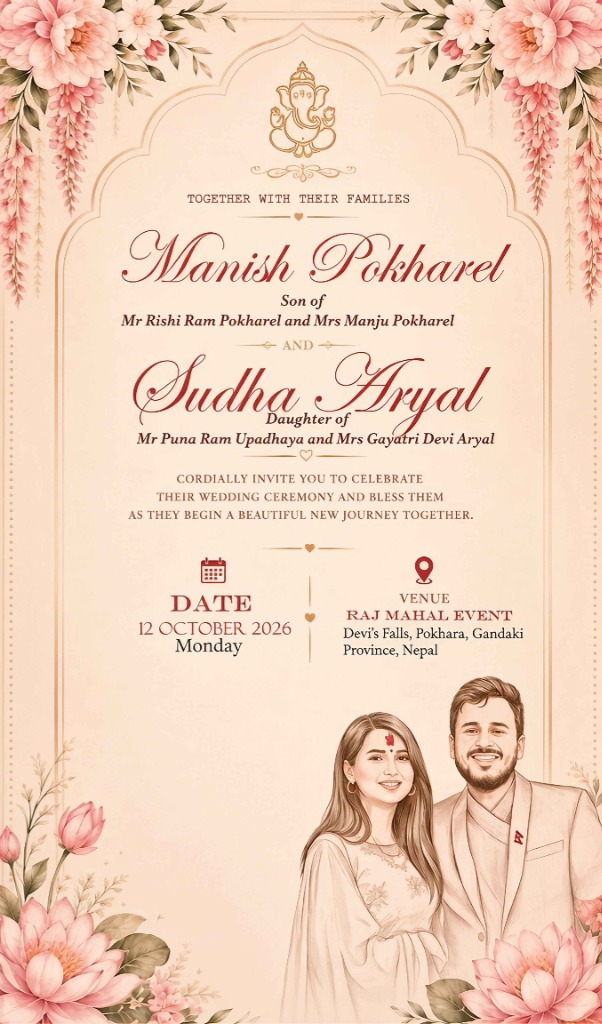
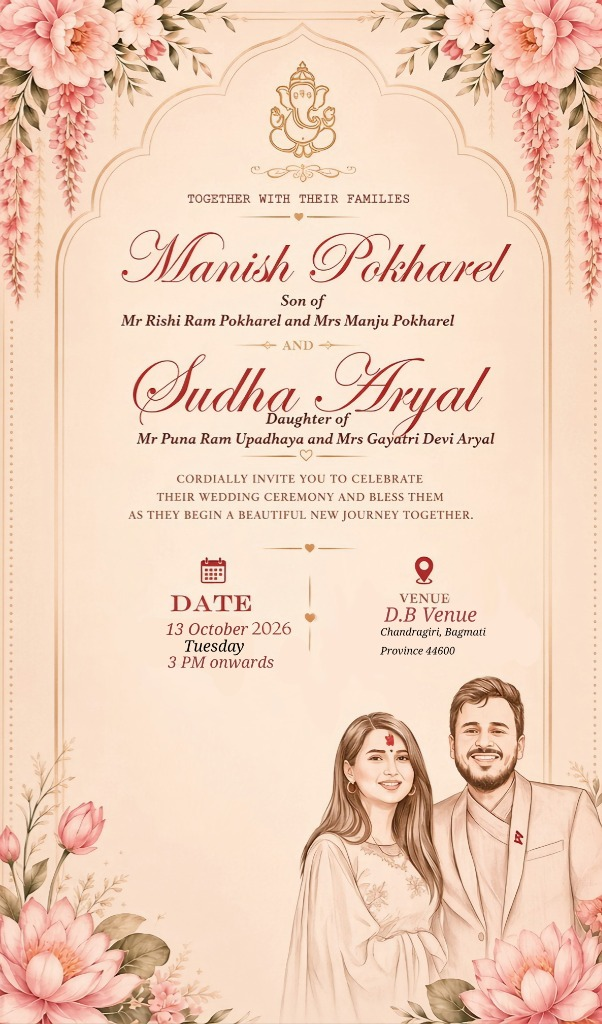
Party Invite

diff --git a/index.html b/index.html
@@ -70,34 +70,34 @@
             <!-- Triangular Flap (clip-path animated to fold open — no 3D rotation) -->
             <div class="envelope-flap-wrap" id="envelope-flap">
               <img src="assets/envelope-back.png" alt="Envelope Flap" class="envelope-asset-img" />
+            </div>
 
-              <!-- Metallic Ganesha Wax Seal -->
-              <div class="wax-seal" id="wax-seal" role="button" aria-label="Open 3D Invitation Envelope">
-                <div class="wax-glow-halo"></div>
-                <div class="wax-seal-body">
-                  <div class="wax-seal-rim">
-                    <svg viewBox="0 0 100 100" class="ganesha-seal-svg">
-                      <defs>
-                        <linearGradient id="ganeshaGold" x1="0%" y1="0%" x2="100%" y2="100%">
-                          <stop offset="0%" stop-color="#fff4c2" />
-                          <stop offset="35%" stop-color="#fae19c" />
-                          <stop offset="70%" stop-color="#d4af37" />
-                          <stop offset="100%" stop-color="#8a6114" />
-                        </linearGradient>
-                      </defs>
-                      <path d="M50 16 C45 16 42 20 42 24 C42 28 45 32 50 32 C55 32 58 28 58 24 C58 20 55 16 50 16 Z" fill="url(#ganeshaGold)" />
-                      <path d="M44 20 L50 8 L56 20 Z" fill="url(#ganeshaGold)" />
-                      <circle cx="50" cy="7" r="1.5" fill="#fff5cc" />
-                      <path d="M42 22 C34 22 28 26 28 32 C28 38 34 42 41 42" stroke="url(#ganeshaGold)" stroke-width="2.2" fill="none" stroke-linecap="round" />
-                      <path d="M58 22 C66 22 72 26 72 32 C72 38 66 42 59 42" stroke="url(#ganeshaGold)" stroke-width="2.2" fill="none" stroke-linecap="round" />
-                      <path d="M47 30 C47 36 49 44 49 52 C49 62 44 68 38 68 C34 68 32 64 34 61 C36 58 40 60 41 62" stroke="url(#ganeshaGold)" stroke-width="3" fill="none" stroke-linecap="round" />
-                      <circle cx="62" cy="58" r="4.5" fill="url(#ganeshaGold)" />
-                      <path d="M45 42 L39 44" stroke="url(#ganeshaGold)" stroke-width="2.2" stroke-linecap="round" />
-                      <path d="M50 18 L50 25" stroke="#fff4c2" stroke-width="1.8" stroke-linecap="round" />
-                      <circle cx="50" cy="26.5" r="1.2" fill="#d4af37" />
-                      <path d="M36 78 C42 74 58 74 64 78 C58 84 42 84 36 78 Z" fill="url(#ganeshaGold)" opacity="0.85" />
-                    </svg>
-                  </div>
+            <!-- Metallic Ganesha Wax Seal (outside flap-wrap so clip-path doesn't cut it) -->
+            <div class="wax-seal" id="wax-seal" role="button" aria-label="Open 3D Invitation Envelope">
+              <div class="wax-glow-halo"></div>
+              <div class="wax-seal-body">
+                <div class="wax-seal-rim">
+                  <svg viewBox="0 0 100 100" class="ganesha-seal-svg">
+                    <defs>
+                      <linearGradient id="ganeshaGold" x1="0%" y1="0%" x2="100%" y2="100%">
+                        <stop offset="0%" stop-color="#fff4c2" />
+                        <stop offset="35%" stop-color="#fae19c" />
+                        <stop offset="70%" stop-color="#d4af37" />
+                        <stop offset="100%" stop-color="#8a6114" />
+                      </linearGradient>
+                    </defs>
+                    <path d="M50 16 C45 16 42 20 42 24 C42 28 45 32 50 32 C55 32 58 28 58 24 C58 20 55 16 50 16 Z" fill="url(#ganeshaGold)" />
+                    <path d="M44 20 L50 8 L56 20 Z" fill="url(#ganeshaGold)" />
+                    <circle cx="50" cy="7" r="1.5" fill="#fff5cc" />
+                    <path d="M42 22 C34 22 28 26 28 32 C28 38 34 42 41 42" stroke="url(#ganeshaGold)" stroke-width="2.2" fill="none" stroke-linecap="round" />
+                    <path d="M58 22 C66 22 72 26 72 32 C72 38 66 42 59 42" stroke="url(#ganeshaGold)" stroke-width="2.2" fill="none" stroke-linecap="round" />
+                    <path d="M47 30 C47 36 49 44 49 52 C49 62 44 68 38 68 C34 68 32 64 34 61 C36 58 40 60 41 62" stroke="url(#ganeshaGold)" stroke-width="3" fill="none" stroke-linecap="round" />
+                    <circle cx="62" cy="58" r="4.5" fill="url(#ganeshaGold)" />
+                    <path d="M45 42 L39 44" stroke="url(#ganeshaGold)" stroke-width="2.2" stroke-linecap="round" />
+                    <path d="M50 18 L50 25" stroke="#fff4c2" stroke-width="1.8" stroke-linecap="round" />
+                    <circle cx="50" cy="26.5" r="1.2" fill="#d4af37" />
+                    <path d="M36 78 C42 74 58 74 64 78 C58 84 42 84 36 78 Z" fill="url(#ganeshaGold)" opacity="0.85" />
+                  </svg>
                 </div>
               </div>
             </div>
@@ -115,7 +115,7 @@
               <div class="card-shimmer-sheen"></div>
 
               <!-- Clickable Venue Hotspot: Opens Google Maps link directly -->
-              <a href="https://maps.app.goo.gl/5cLbY6xXjAzk1YE78" 
+              <a href="https://maps.app.goo.gl/8sQeNH2fCRxN4Krw5" 
                  target="_blank" 
                  rel="noopener noreferrer" 
                  class="venue-location-link" 
@@ -142,7 +142,7 @@
           <img src="assets/inner-card.png" alt="Manish &amp; Sudha Wedding Card Full Resolution" class="lightbox-card-img" />
           <div class="card-shimmer-sheen"></div>
           <!-- Clickable Venue Hotspot in Lightbox Zoom: Opens Google Maps link directly -->
-          <a href="https://maps.app.goo.gl/5cLbY6xXjAzk1YE78" 
+          <a href="https://maps.app.goo.gl/8sQeNH2fCRxN4Krw5" 
              target="_blank" 
              rel="noopener noreferrer" 
              class="venue-location-link" 
